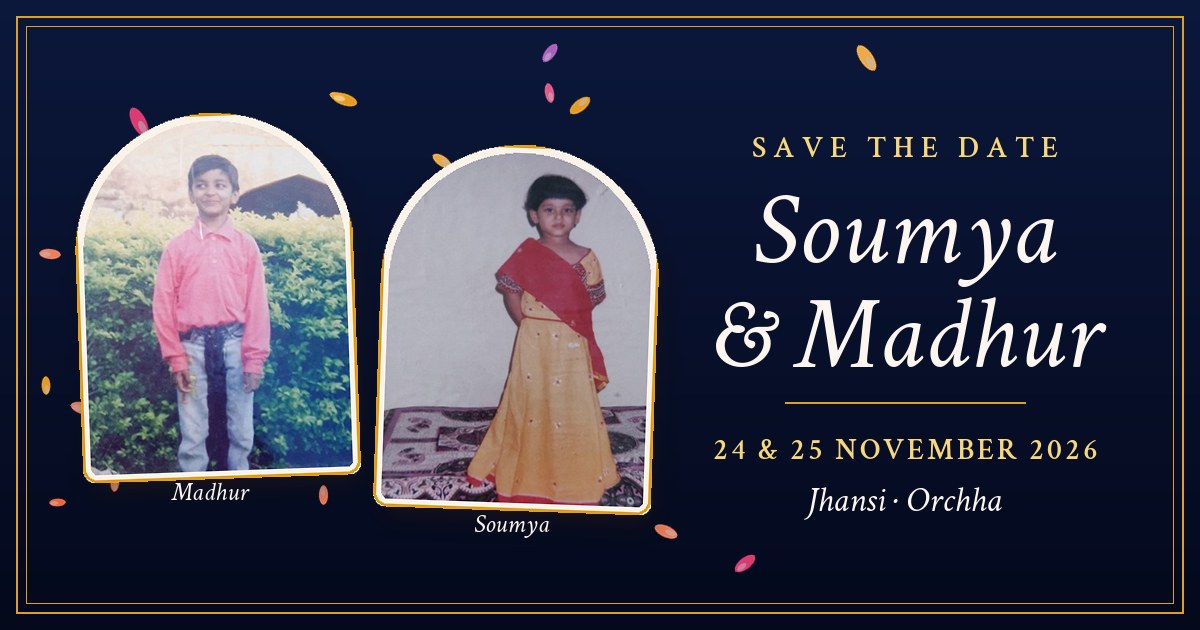
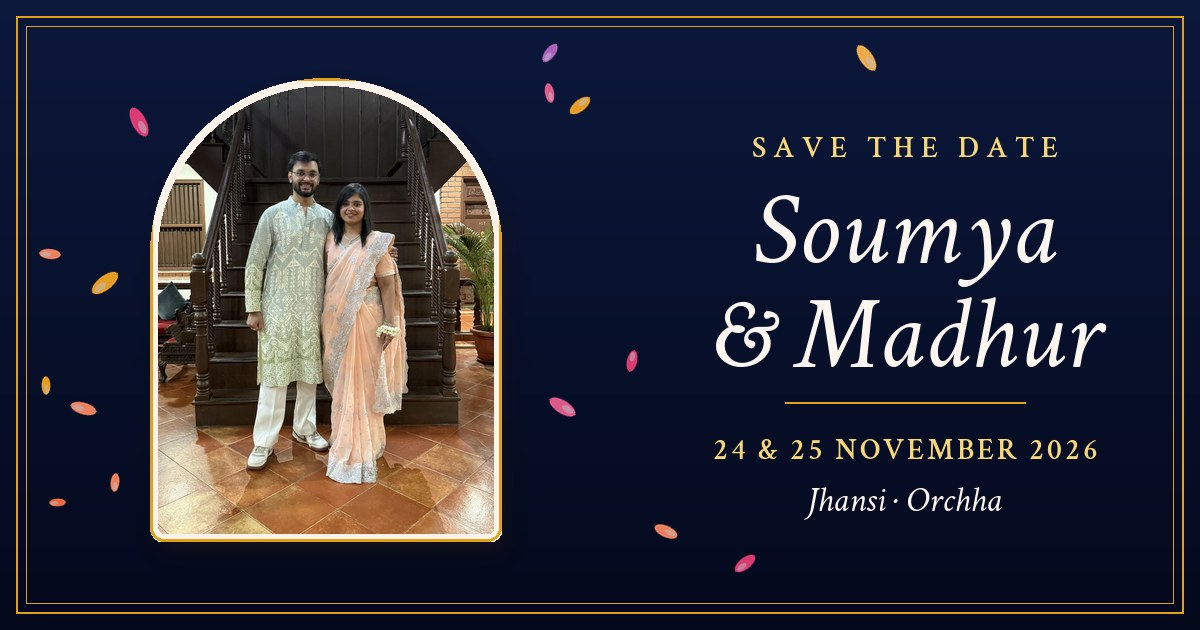
WhatsApp picture: one photo of the two of them in front of the stairs instead of the childhood photos

Changed region(s): [[0.0617, 0.1206, 0.555, 0.8746]]

diff --git a/Source/pipeline/savedate_og.py b/Source/pipeline/savedate_og.py
@@ -1,4 +1,4 @@
-"""Link-preview picture for the Save the Date address (/link): the two childhood photos in arches, with the names and dates.
+"""Link-preview picture shown when the invitation link is sent: two photos of Soumya and Madhur in arches, with the names and dates.
 WhatsApp and other apps show it when the link is sent. Called from build.py; writes Website/save-the-date-og.jpg (1200 x 630)."""
 import glob, io, os, random
 from PIL import Image, ImageDraw, ImageFont, ImageFilter
@@ -87,14 +87,14 @@ def make(site_dir, assets_dir, fonts_dir):
     d.rectangle((16, 16, W - 17, H - 17), outline=GOLD, width=2); d.rectangle((26, 26, W - 27, H - 27), outline=GOLD, width=1)
     _scatter(bg, os.path.join(site_dir, "images"))
 
-    m = Image.open(os.path.join(assets_dir, "save-the-date", "madhur.jpg")); s = Image.open(os.path.join(assets_dir, "save-the-date", "soumya.jpg"))
-    for img, x, y, a in ((_arch(m, 262, 350, 2), 70, 108, 0), (_arch(s, 262, 350, -2), 372, 140, 0)):
+    # one picture: the two of them standing in front of the stairs (slideshow photo-12)
+    shows = os.path.join(site_dir, "images", "slideshow")
+    stairs = Image.open(os.path.join(shows, "photo-12.jpg")).convert("RGB").crop((0, 450, 1350, 2250))
+    for img, x, y, a in ((_arch(stairs, 336, 448, 0), 150, 78, 0),):
         shadow = Image.new("RGBA", bg.size, (0, 0, 0, 0)); shadow.paste((60, 30, 20, 90), (x + 6, y + 14), img.getchannel("A"))
         bg.paste(Image.alpha_composite(bg.convert("RGBA"), shadow.filter(ImageFilter.GaussianBlur(12))).convert("RGB"))
         bg.paste(img, (x, y), img)
     d = ImageDraw.Draw(bg)
-    cap = _font(fonts_dir, "crimson-text-latin-400-italic.woff2", 26)
-    d.text((70 + 140, 108 + 350 + 34), "Madhur", font=cap, fill=TXT, anchor="mm"); d.text((372 + 140, 140 + 350 + 34), "Soumya", font=cap, fill=TXT, anchor="mm")
 
     cx = 905
     semi = _font(fonts_dir, "crimson-text-latin-600-normal.woff2", 30)

diff --git a/Guides/CHECKLIST.md b/Guides/CHECKLIST.md
@@ -84,4 +84,4 @@ To publish: upload this folder to Vercel (or any static host) as is.
 | `?to=Name` in the link | Envelope shows "Dear Name" above "Tap the seal to open"; the RSVP name field is pre-filled (editable). Names are plain text, max 60 characters. No change to the approved card pages |
 | `Website/link/index.html` (`/link`) | Deployed link maker: each guest or family name creates a personal link on the fixed live domain; with no name, it provides a general invitation using the site root and omits the greeting; the page explains this option. Includes copy-link, copy-message, and WhatsApp actions. The invitation message is editable and supports `{name}` and `{link}`; the template is saved in the browser. |
 | `Website/links.html` | Local convenience copy of the same link maker. |
-| Save the Date photo | The invitation link previews (WhatsApp etc.) as a photo of Madhur and Soumya as children with the names and dates (`save-the-date-og.jpg`, made by `savedate_og.py`). The personal links page shows it at the top (on a phone "Send with photo" shares it with the message). Nothing about it is inside the invitation |
+| Save the Date photo | The invitation link previews (WhatsApp etc.) as a picture of Soumya and Madhur standing in front of the stairs (slideshow photo-12) with the names and dates (`save-the-date-og.jpg`, made by `savedate_og.py`). The personal links page shows it at the top (on a phone "Send with photo" shares it with the message). Nothing about it is inside the invitation |

diff --git a/CLAUDE.md b/CLAUDE.md
@@ -105,7 +105,7 @@ A link like `https://…/?to=Sharma%20Family` greets the guest ("Dear Sharma Fam
 
 ## Save the Date photo
 
-`Source/pipeline/savedate_og.py` makes `Website/save-the-date-og.jpg` (1200 x 630) on every build from the two childhood photos in `Source/assets/save-the-date/` (Madhur in the pink shirt, Soumya in the yellow dress), with the names and dates. It is the `og:image` of the invitation, so any invitation link previews as the photo of us when sent on WhatsApp. The personal links page (`/link/`, also `links.html`) shows it at the top; on a phone "Send with photo" shares it with the message. There is no Save the Date page inside the invitation.
+`Source/pipeline/savedate_og.py` makes `Website/save-the-date-og.jpg` (1200 x 630) on every build from one slideshow photo (`photo-12`, the two of them standing in front of the stairs; `photo-02`, the pink saree with the white kurta pyjama, is the alternative), with the names and dates, on a dark navy background with small falling petals. It is the `og:image` of the invitation, so any invitation link previews as that picture when sent on WhatsApp. The personal links page (`/link/`, also `links.html`) shows it at the top; on a phone "Send with photo" shares it with the message. There is no Save the Date page inside the invitation.
 
 ## Rules from the owner — do not break these
 
